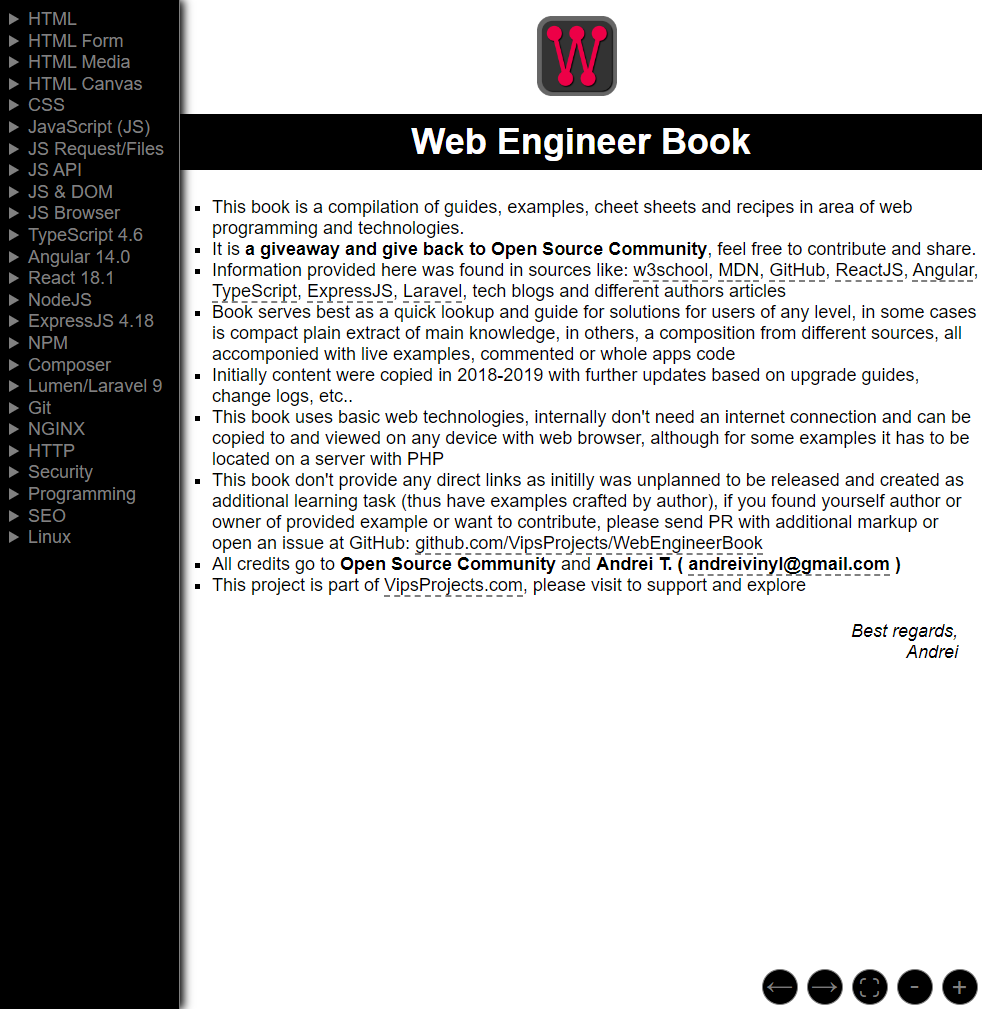
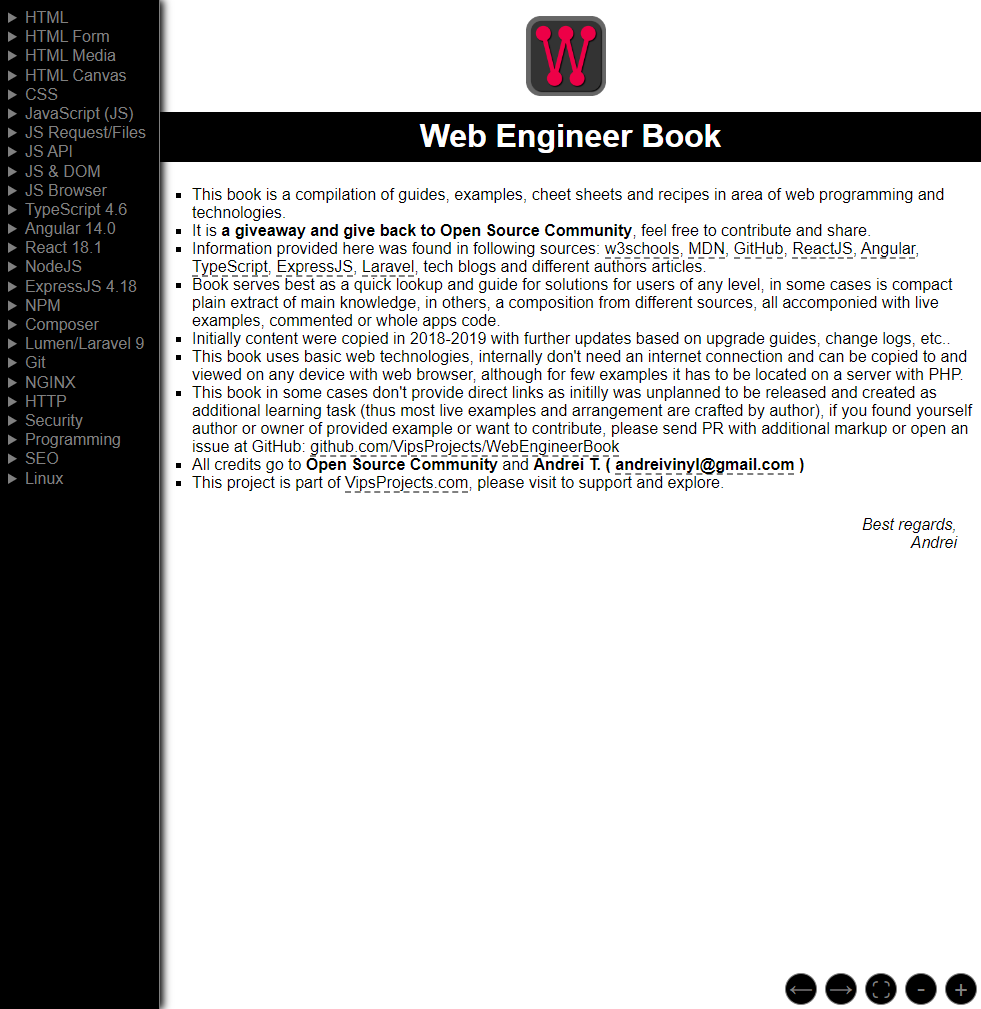
fixes

diff --git a/readme.html b/readme.html
@@ -32,9 +32,9 @@
     <li>This book is a compilation of guides, examples, cheet sheets and recipes in area of web programming and technologies.</li>
     <li>It is <strong>a giveaway and give back to Open Source Community</strong>, feel free to contribute and share.</li>
     <li>Information provided here was found in following sources: <a href="https://www.w3schools.com/" target="_blank">w3schools</a>, <a href="https://developer.mozilla.org/" target="_blank">MDN</a>, <a href="https://github.com/">GitHub</a>, <a href="https://reactjs.org/" target="_blank">ReactJS</a>, <a href="https://angular.io/" target="_blank">Angular</a>, <a href="https://www.typescriptlang.org/" target="_blank">TypeScript</a>, <a href="http://expressjs.com/" target="_blank">ExpressJS</a>, <a href="https://laravel.com/" target="_blank">Laravel</a>, tech blogs and different authors articles.</li>
-    <li>Book serves best as a quick lookup and guide for solutions for users of any level, in some cases is compact plain extract of main knowledge, in others, a composition from different sources, all accomponied with live examples, commented or whole apps code.</li>
+    <li>Book serves best as a quick lookup and guide for solutions for users of any level, in some cases is compact plain extract of main knowledge, in others, a composition from different sources, all accompanied with live examples, commented or whole apps code.</li>
     <li>Initially content were copied in 2018-2019 with further updates based on upgrade guides, change logs, etc..</li>
-    <li>This book uses basic web technologies, internally don't need an internet connection and can be copied to and viewed on any device with web browser, although for some examples it has to be located on a server with PHP.</li>
+    <li>This book uses basic web technologies, internally don't need an internet connection and can be copied to and viewed on any device with web browser, although for few examples it has to be located on a server with PHP.</li>
     <li>This book in some cases don't provide direct links as initilly was unplanned to be released and created as additional learning task (thus most live examples and arrangement are crafted by author), if you found yourself author or owner of provided example or want to contribute, please send PR with additional markup or open an issue at GitHub: <a href="https://github.com/VipsProjects/WebEngineerBook" target="_blank">github.com/VipsProjects/WebEngineerBook</a></li>
     <li>All credits go to <strong>Open Source Community</strong> and <strong>Andrei T. ( <a href="mailto:andreivinyl@gmail.com">andreivinyl@gmail.com</a> )</strong></li>
     <li>This project is part of <a href="https://vipsprojects.com" target="_blank">VipsProjects.com</a>, please visit to support and explore.</li>

diff --git a/pages/js.html b/pages/js.html
@@ -27,7 +27,7 @@
 <h2 id="intro">Intro</h2>
 
   <ul>
-    <li>JavaScript is the default scripting language in HTML, <code> &lt;script&gt; ... &lt;script&gt;</code> - type attribute is <strong>not</strong> required</li>
+    <li>JavaScript (JS) is the default scripting language in HTML, <code> &lt;script&gt; ... &lt;script&gt;</code> - type attribute is <strong>not</strong> required</li>
     <li>JavaScript identifiers are <strong>case-sensitive</strong></li>
     <li>if you put a number in quotes, it will be treated as a text string</li>
     <li>declare all variables at the beginning of a script</li>
@@ -78,7 +78,6 @@
         <li>new ...</li>
         <li>== (always converts (to matching types) before comparison)</li>
         <li>using eval()</li>
-        <li>trailing commas in object and array definition</li>
         <li>activity in loop and its definition statements (predefine vars: i, length,..)</li>
         <li>using <strong>with</strong></li>
       </ul>
@@ -119,10 +118,10 @@
   </ul>
 
   <pre><code class="javascript">
-    // vars list
+    // variables list
     var one_1, _2, $_3;
     /*
-    * vars definition
+    * variables definition
     */
     one_1 = 1;
     _2 = 2.02;
@@ -154,6 +153,8 @@
       return      // will return undefined from this function, return - is a complete statement
       a * power;
     }
+
+    // see "Scope,var,let,const" article for extensive information about variables definition
   </code></pre>
 
   <h3>AVOID</h3>

diff --git a/js/utils.js b/js/utils.js
@@ -22,7 +22,10 @@ function setResize (x) {
 }
 function setZoom (x) {
   doc.style.fontSize = `${x}px`;
-  document.getElementById('menu_target').contentWindow.document.querySelector('body').style.fontSize = `${x}px`;
+  const target = document.getElementById('menu_target');
+  if (target) {
+    target.contentWindow.document.querySelector('body').style.fontSize = `${x}px`;
+  }
   storageSet('zoom', x);
 }
 

diff --git a/pages/react.html b/pages/react.html
@@ -1347,7 +1347,7 @@
                 <li key={letter}
                   onClick={() => this.handleClick(letter)}
                   /* OR with data-. */
-                  data-letter={letter} onClick={this.handleClick}
+                  // data-letter={letter} onClick={this.handleClick}
                 >
                   {letter}
                 </li>

diff --git a/README.MD b/README.MD
@@ -7,7 +7,7 @@ https://book.vipsprojects.com/
 - This book is a compilation of guides, examples, cheet sheets and recipes in area of web programming and related technologies
 - It is a giveaway and give back to Open Source Community, feel free to contribute and share.
 - Information provided here was found in following sources: w3schools.com , developer.mozilla.org , github.com , reactjs.org , angular.io , typescriptlang.org , expressjs.com , laravel.com , tech blogs and different authors articles.
-- Book serves best as a quick lookup and guide for solutions for users of any level, in some cases it presents a compact plain extract of main knowledge, in others, a composition from different sources, all accomponied with live examples, commented or whole apps code.
+- Book serves best as a quick lookup and guide for solutions for users of any level, in some cases it presents a compact plain extract of main knowledge, in others, a composition from different sources, all accompanied with live examples, commented or whole apps code.
 - Initially content were copied in 2018-2019 with further updates based on upgrade guides, change logs, etc..
 - This book uses basic web technologies, internally don't need an internet connection and can be copied to and viewed on any device with web browser, although for some examples it has to be located on a server with PHP.
 - This book in some cases don't provide direct links as initially was unplanned to be released and created as additional learning task (thus most live examples and arrangement are crafted by author), if you found yourself author or owner of provided example or want to contribute, please send PR with additional markup or open an issue at GitHub: github.com/VipsProjects/WebEngineerBook
